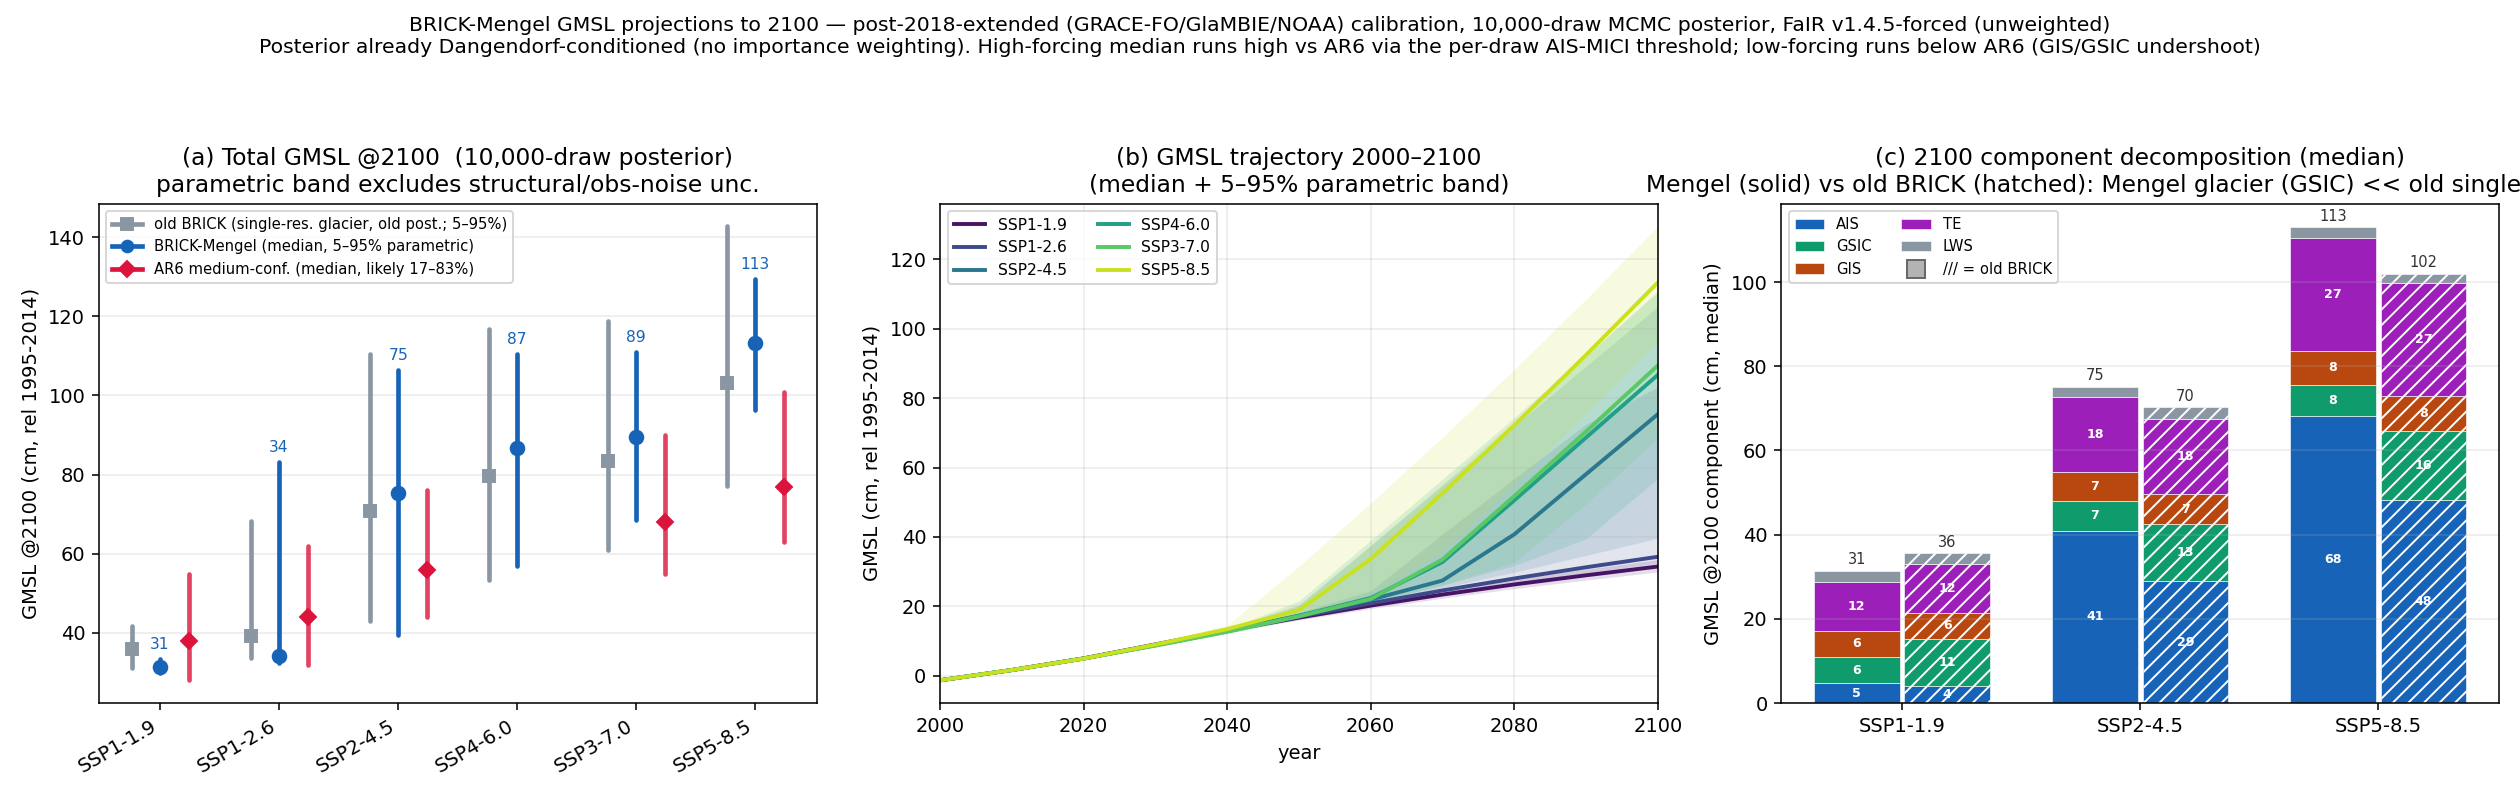
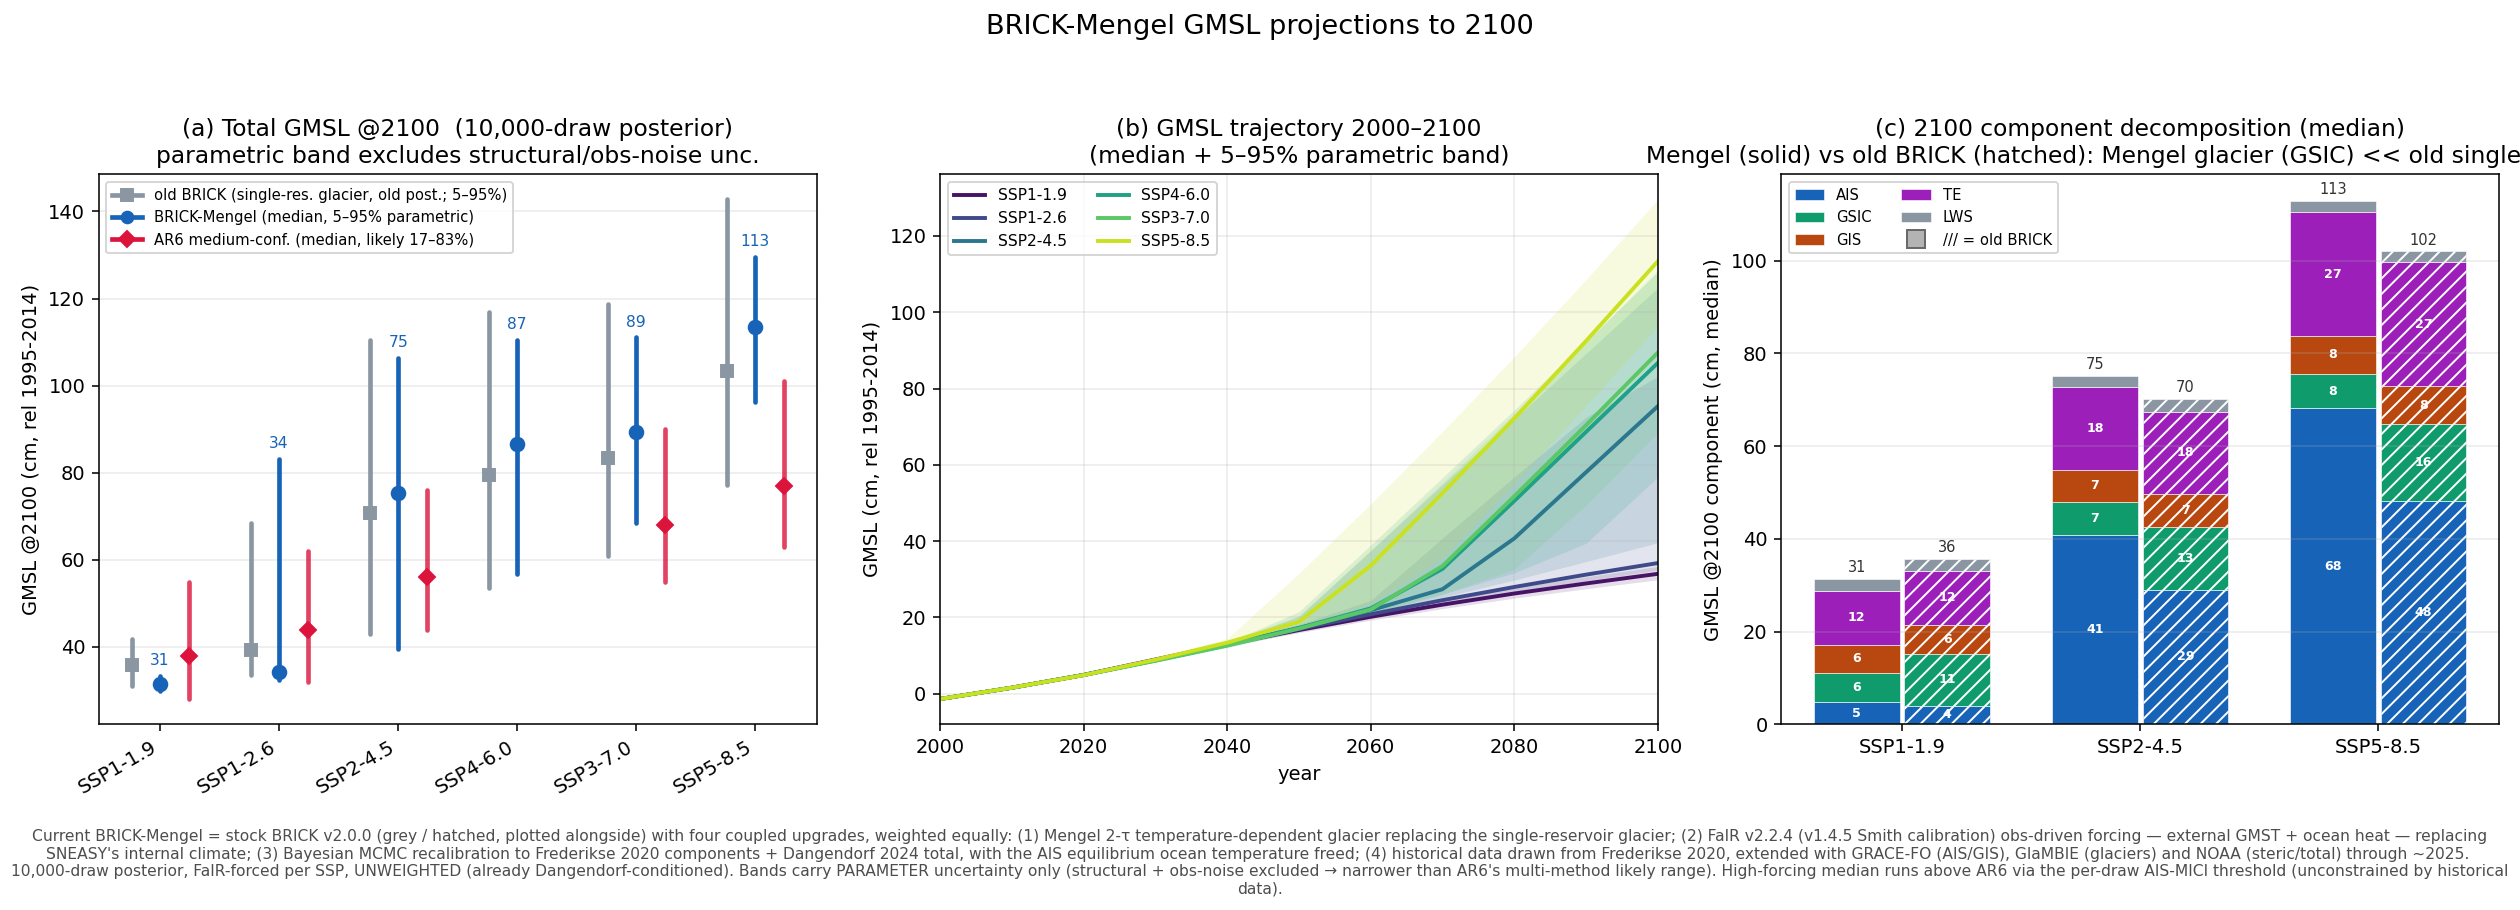
Reframe both figures for Tony Wong: BRICK v2.0.0 -> current, even-weight changes; fix FaIR version
Marcus 2026-06-13:
- FaIR version corrected: model is FaIR v2.2.4; v1.4.5 is the Smith CALIBRATION dataset,
  not the model version (was mislabeled 'FaIR v1.4.5-forced'). [[project_fair_version_distinction]]
- Projection figure: simple title 'BRICK-Mengel GMSL projections to 2100'; all detail moved
  to a bottom caption. Data phrased as 'historical data drawn from Frederikse 2020, extended
  with GRACE-FO/GlaMBIE/NOAA'.
- Both figures (audience = Tony, BRICK author): frame as stock BRICK v2.0.0 -> current and
  enumerate the four upgrades EVENLY (Mengel glacier; FaIR v2.2.4 obs-driven forcing vs SNEASY;
  MCMC recal to Frederikse+Dangendorf w/ freed AIS eq. T; obs extension) rather than headlining
  the extension. Old BRICK already overlaid in both as the v2.0.0 reference.

diff --git a/python/plot_postpred_components_ext.py b/python/plot_postpred_components_ext.py
@@ -126,17 +126,21 @@ axr.legend(fontsize=7.5, loc="upper right", title="end-yr Δ (cm)", title_fontsi
 for ax in axes[1, :]:
     ax.set_xlabel("year")
 
-fig.suptitle("Historical sea-level reconstruction — BRICK + Mengel glacier + FaIR forcing, "
-             "calibrated to Frederikse + Dangendorf and extended (GRACE-FO / GlaMBIE / NOAA)",
-             fontsize=12.5, y=0.985)
+fig.suptitle("Historical sea-level reconstruction: BRICK-Mengel vs stock BRICK v2.0.0", fontsize=13, y=0.985)
+
+# Audience = Tony Wong (BRICK author): present the four changes since stock BRICK
+# v2.0.0 (green dash-dot) EVENLY, not headlining the obs extension. FaIR is the
+# v2.2.4 MODEL with the v1.4.5 Smith calibration dataset (NOT "FaIR v1.4.5").
 fig.text(0.5, 0.012,
-         "Obs provenance shown separately: Frederikse 2020 components (Dangendorf 2024 total) for 1900–2018, "
-         "spliced at 2018 (dotted) to modern reconciled products — GRACE-FO mascon (AIS/GIS, →2025), GlaMBIE 2025 "
-         "glaciers (→2023), NOAA NCEI thermosteric (→2025), NOAA STAR altimetry total (→2024) — by overlap "
-         "offset-matching (no rescale); the modern curve is drawn over its full range incl. the 2003–2018 overlap. "
-         "Model = MCMC posterior (4×500k, 27/28 R̂<1.05; 10k draws), FaIR v1.4.5-forced, calibrated rel "
-         f"{CAL_BASE}; bands are 90% PARAMETER uncertainty (AR(1) obs-noise excluded → narrow). All curves "
-         f"re-referenced to {REF0}–{REF1} FOR DISPLAY. Old BRICK = stock single-reservoir glacier on the pre-Mengel posterior.",
+         "Current BRICK-Mengel = stock BRICK v2.0.0 (green dash-dot, plotted alongside) with four coupled upgrades, "
+         "weighted equally: (1) Mengel 2-τ temperature-dependent glacier replacing the single-reservoir glacier; "
+         "(2) FaIR v2.2.4 (v1.4.5 Smith calibration) obs-driven forcing — external GMST + ocean heat — replacing "
+         "SNEASY's internal climate; (3) Bayesian MCMC recalibration (4×500k, 27/28 R̂<1.05; 10k draws) to Frederikse "
+         "2020 components + Dangendorf 2024 total, AIS equilibrium ocean temperature freed; (4) historical data drawn "
+         "from Frederikse 2020 (grey), extended with GRACE-FO (AIS/GIS), GlaMBIE (glaciers), NOAA NCEI (steric), "
+         "NOAA STAR (total) — spliced at 2018 (dotted) by overlap offset-matching (no rescale; modern curve drawn over "
+         f"its full range incl. the 2003–2018 overlap). Model bands carry PARAMETER uncertainty only (AR(1) obs-noise "
+         f"excluded → narrow). Calibrated rel {CAL_BASE}; all curves re-referenced to {REF0}–{REF1} for display.",
          ha="center", va="bottom", fontsize=7.6, color="0.3", wrap=True)
 fig.tight_layout(rect=[0, 0.055, 1, 0.915])
 fig.savefig(OUT, dpi=140)

diff --git a/python/plot_ssp_projections_mengel.py b/python/plot_ssp_projections_mengel.py
@@ -59,7 +59,7 @@ AR6 = {"SSP1-1.9": (38, 28, 55), "SSP1-2.6": (44, 32, 62), "SSP2-4.5": (56, 44, 
 def get(ssp): return S[S.ssp_label == ssp].iloc[0]
 def getold(ssp): return O[O.ssp_label == ssp].iloc[0]
 
-fig, (axa, axb, axc) = plt.subplots(1, 3, figsize=(18, 5.7))
+fig, (axa, axb, axc) = plt.subplots(1, 3, figsize=(18, 6.5))
 x = np.arange(len(ORDER))
 BLUE, RED, GREY = "#1763b8", "crimson", "#8a97a3"
 
@@ -130,10 +130,25 @@ handles.append(ml.Line2D([], [], color="0.4", marker="s", lw=0, markersize=9,
 axc.legend(handles=handles, fontsize=7.6, loc="upper left", ncol=2)
 axc.grid(axis="y", alpha=0.25)
 
-fig.suptitle(f"BRICK-Mengel GMSL projections to 2100 — {CALLABEL} calibration, {NDRAWS:,}-draw MCMC posterior, FaIR v1.4.5-forced (unweighted)\n"
-             "Posterior already Dangendorf-conditioned (no importance weighting). High-forcing median runs high vs "
-             "AR6 via the per-draw AIS-MICI threshold; low-forcing runs below AR6 (GIS/GSIC undershoot)",
-             fontsize=10.5)
-fig.tight_layout(rect=[0, 0, 1, 0.93])
+fig.suptitle("BRICK-Mengel GMSL projections to 2100", fontsize=14, y=0.985)
+
+# Audience = Tony Wong (BRICK author): frame the figure as stock BRICK v2.0.0 (the
+# grey/hatched "old BRICK" series) vs the current model, with ALL the changes since
+# v2.0.0 enumerated EVENLY (not headlining the obs extension). FaIR is the v2.2.4
+# MODEL with the v1.4.5 Smith calibration dataset (NOT "FaIR v1.4.5").
+EXT_CLAUSE = ("extended with GRACE-FO (AIS/GIS), GlaMBIE (glaciers) and NOAA (steric/total) through ~2025"
+              if TAG == "ext" else "1900–2018")
+fig.text(0.5, 0.015,
+         "Current BRICK-Mengel = stock BRICK v2.0.0 (grey / hatched, plotted alongside) with four coupled upgrades, "
+         "weighted equally: (1) Mengel 2-τ temperature-dependent glacier replacing the single-reservoir glacier; "
+         "(2) FaIR v2.2.4 (v1.4.5 Smith calibration) obs-driven forcing — external GMST + ocean heat — replacing "
+         "SNEASY's internal climate; (3) Bayesian MCMC recalibration to Frederikse 2020 components + Dangendorf 2024 "
+         "total, with the AIS equilibrium ocean temperature freed; (4) historical data drawn from Frederikse 2020, "
+         f"{EXT_CLAUSE}.  "
+         f"{NDRAWS:,}-draw posterior, FaIR-forced per SSP, UNWEIGHTED (already Dangendorf-conditioned). Bands carry "
+         "PARAMETER uncertainty only (structural + obs-noise excluded → narrower than AR6's multi-method likely range). "
+         "High-forcing median runs above AR6 via the per-draw AIS-MICI threshold (unconstrained by historical data).",
+         ha="center", va="bottom", fontsize=8, color="0.3", wrap=True)
+fig.tight_layout(rect=[0, 0.10, 1, 0.95])
 fig.savefig(OUT, dpi=140)
 print(f"[wrote {OUT}]")
